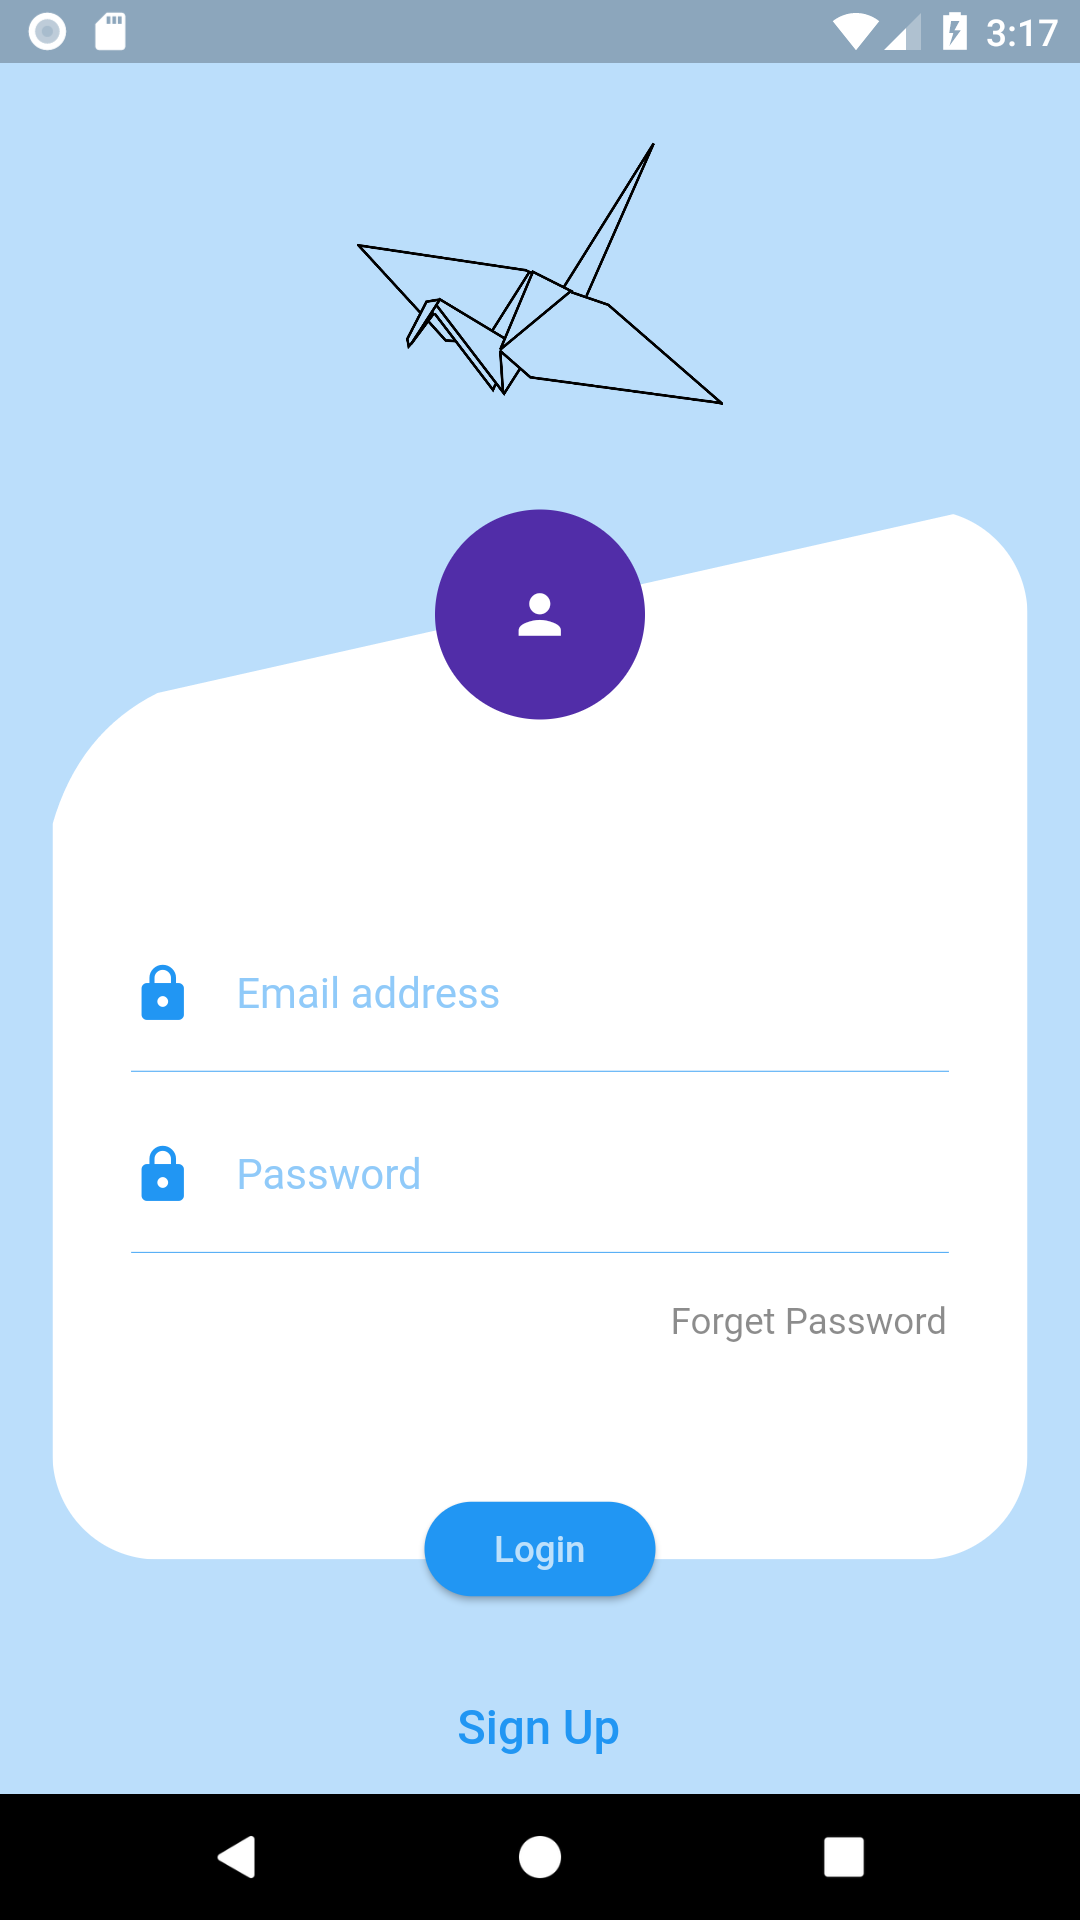
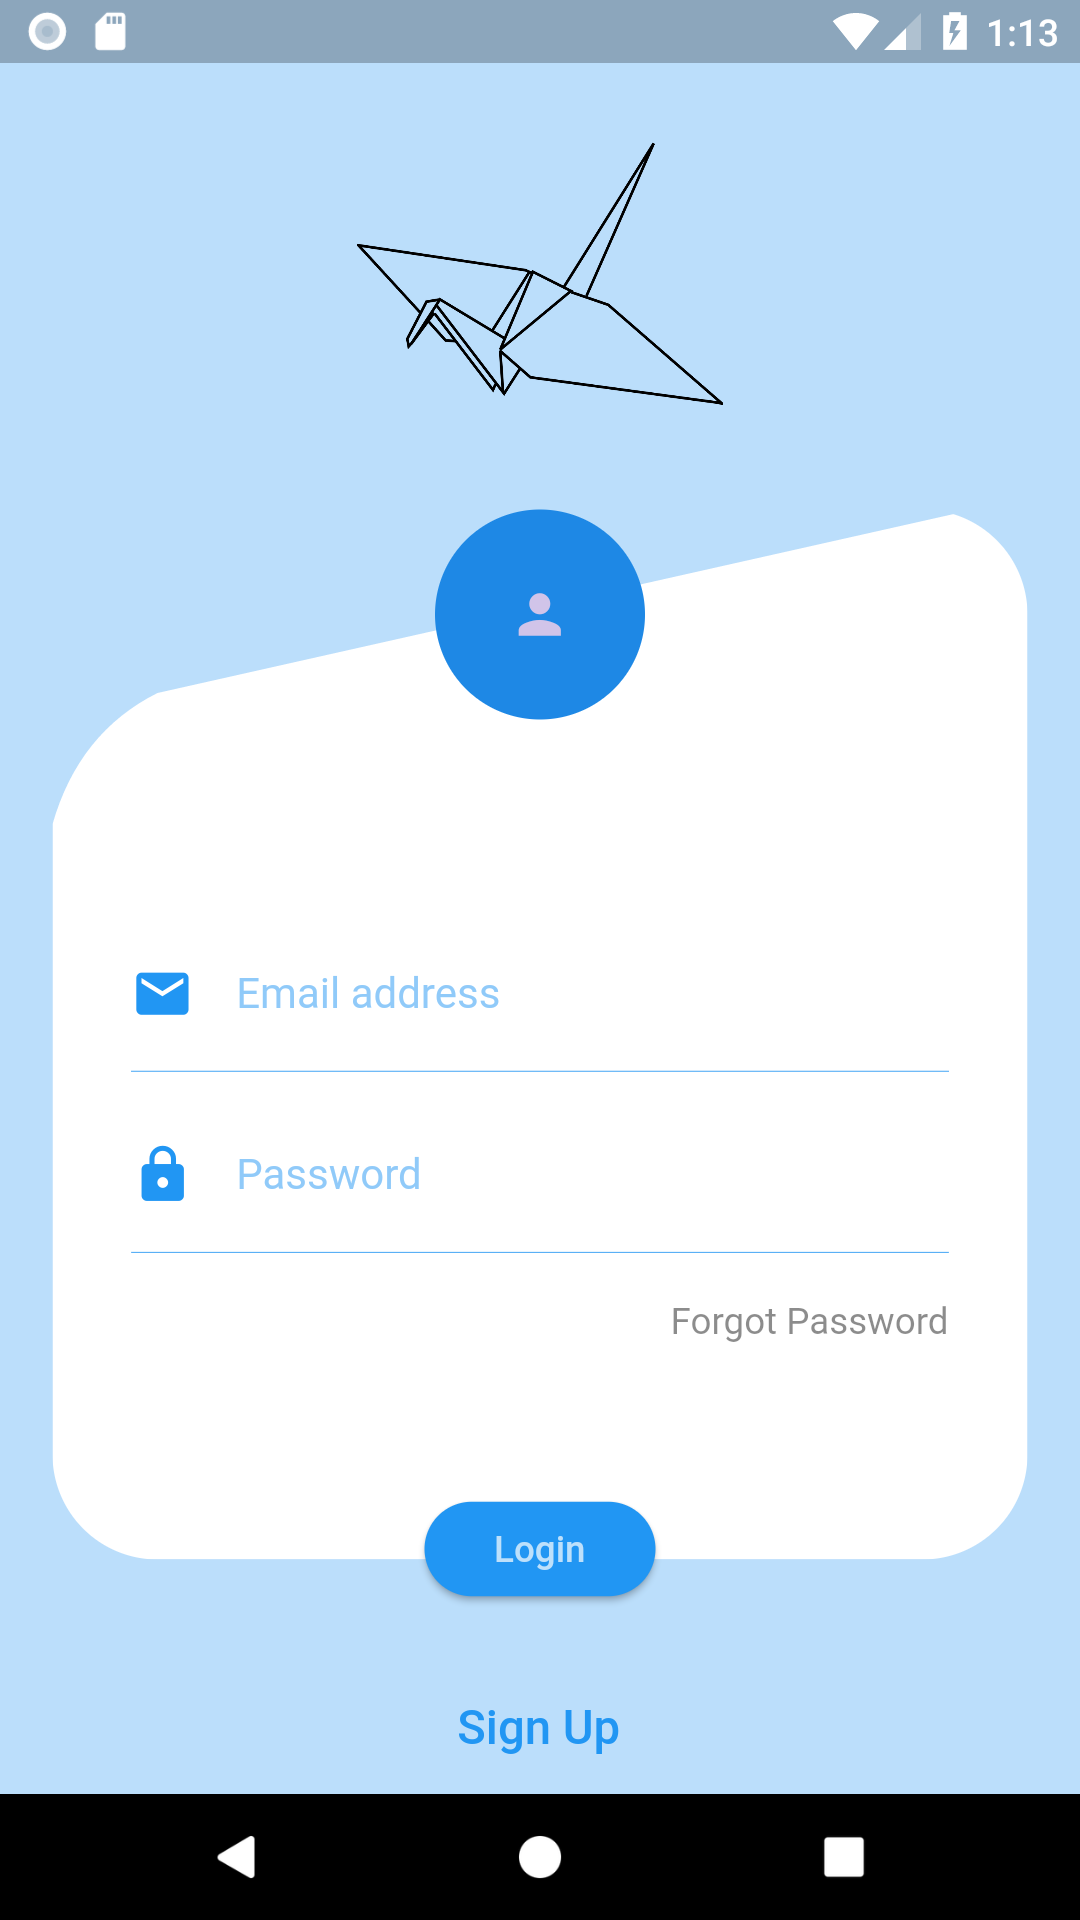
corrected forgot password

diff --git a/lib/src/pages/login/login2.dart b/lib/src/pages/login/login2.dart
@@ -79,7 +79,7 @@ class LoginTwoPage extends StatelessWidget {
                         mainAxisAlignment: MainAxisAlignment.end,
                         children: <Widget>[
                           Container(padding: EdgeInsets.only(right: 20.0),
-                            child: Text("Forget Password",
+                            child: Text("Forgot Password",
                               style: TextStyle(color: Colors.black45),
                             )
                           )
